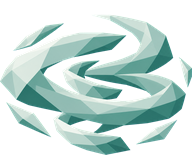
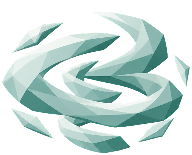
feat(vfx): 칼바람 회오리 회전 4프레임 추가

Changed region(s): [[0.0312, 0.0774, 1.0, 1.0], [0.0625, 0.129, 0.3438, 0.3355], [0.0, 0.4129, 0.0938, 0.5419]]

diff --git a/.art/PRODUCTION-STATUS.md b/.art/PRODUCTION-STATUS.md
@@ -128,6 +128,7 @@
 | `FireShot.png` | 클라이언트 PR (이슈 #694) | 256x88 RGBA, 원본 크기 유지. 화염탄 투사체, Hellfire 재 갑각 + 갈라진 틈으로 비치는 용암광으로 이동. 원본과 같은 방향(넓은 톱니머리 우측, 가는 꼬리 좌측)으로 고정. magenta 키 제거, 네 모서리 alpha 0, magenta 잔색 0px, `shrink.py`/`bottom.py` 검수 통과(바닥여백 0→0) |
 | `MeteorShower.png` | 클라이언트 PR (이슈 #694) | 207x256 RGBA, 원본 크기 유지. 지옥불 군단 유성, 갈라진 재 갑각 사이로 비치는 비대칭 용암 균열. magenta 키 제거, 네 모서리 alpha 0, magenta 잔색 0px, `shrink.py`/`bottom.py` 검수 통과(바닥여백 13→0, 하락 방향이라 미해당) |
 | `RazorGale.png` | 클라이언트 PR (이슈 #694) | 256x207 RGBA, 원본 크기 유지. 칼바람 회오리, 두세 겹 겹친 다면체 곡선 리본이 감아 도는 소용돌이. 리본 사이 트인 틈으로 enclosed_pixels=16368가 나왔으나 불투명 픽셀 magenta 잔색은 0px. magenta 키 제거, 네 모서리 alpha 0, `shrink.py`/`bottom.py` 검수 통과 |
+| `razor_gale_frame_0.png`–`razor_gale_frame_3.png` | 클라이언트 이슈 #496 | 192×155 RGBA, PPU 100, Bottom Center. 공통 하단에 맞춘 민트색 회전 4프레임을 기존 0.12초 간격으로 반복한다 |
 | `SandStorm.png` | 클라이언트 PR (이슈 #694) | 159x256 RGBA, 원본 크기 유지. 모래 폭풍, Wind 진영 소속이지만 모래라는 재질 때문에 따뜻한 황토색(`#D8B978`~`#6E4E22`)을 그대로 유지 — 바위 골렘의 이끼 낀 황갈과는 톤을 다르게 잡아 구분된다. magenta 키 제거, 네 모서리 alpha 0, magenta 잔색 0px, `shrink.py`/`bottom.py` 검수 통과 |
 | `SandStormFrame01.png`–`SandStormFrame04.png` | 클라이언트 이슈 #492 | 159×256 RGBA, 기존 PPU와 Bottom Center. 지면 끝을 같은 위치에 두고 내부 모래 띠를 0.22초 간격으로 반복한다. 기존 흔들림·불투명도 적용. Unity 플레이 검수 대기 |
 | `TornadoStrike.png` | 클라이언트 PR (이슈 #694) | 224x256 RGBA, 원본 크기 유지. 회오리 정령, 위가 넓고 아래로 갈수록 좁아지는 깔때기. enclosed_pixels=26453는 리본 사이 트인 중심부, 불투명 픽셀 magenta 잔색 0px. magenta 키 제거, 네 모서리 alpha 0, `shrink.py`/`bottom.py` 검수 통과 |
